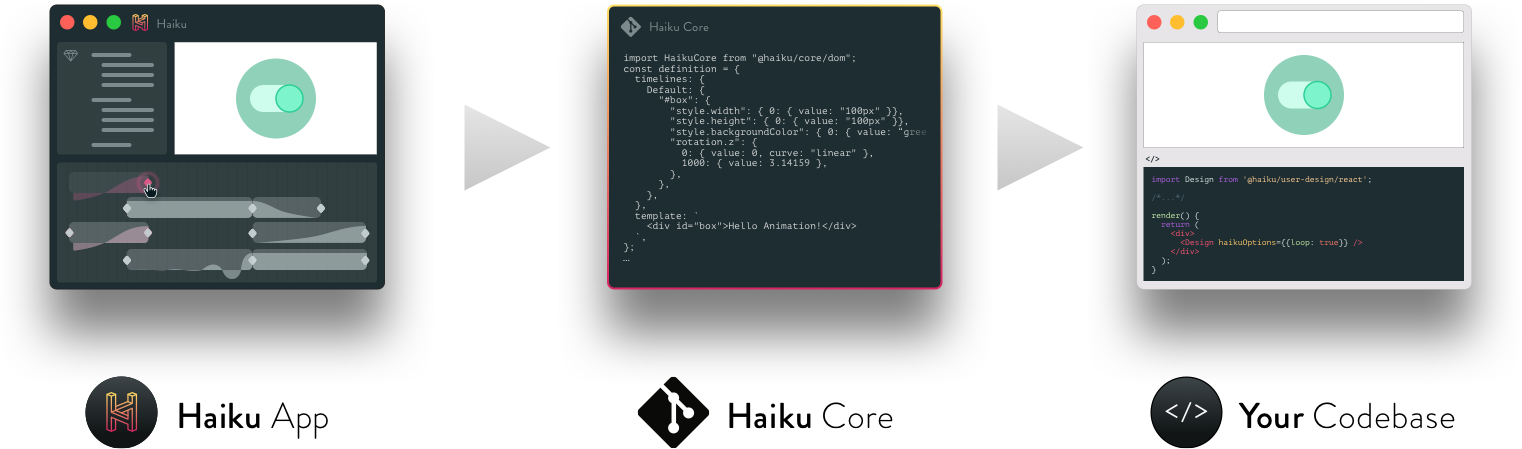
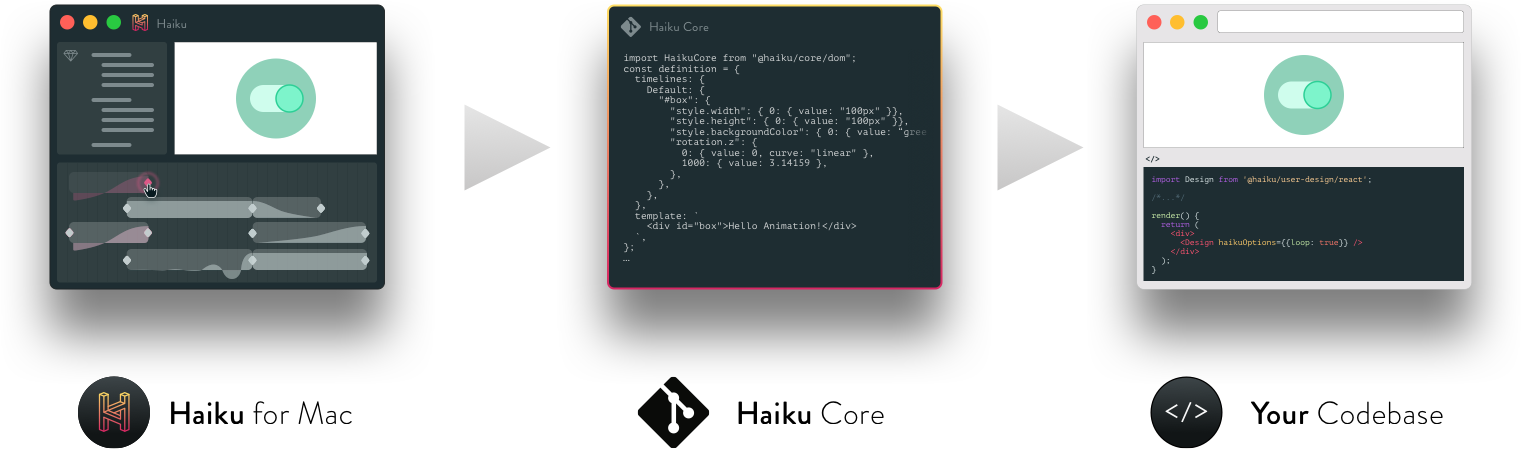
docs: Renamed Haiku App to Haiku for Mac

Changed region(s): [[0.0309, 0.8419, 0.247, 1.0], [0.8029, 0.8731, 0.9573, 0.9666], [0.4632, 0.8731, 0.5867, 0.9666]]

diff --git a/README.md b/README.md
@@ -24,7 +24,7 @@ Haiku Core is the JavaScript engine that runs [Haiku for Mac](https://haiku.ai).
 </p>
 <br>
 
-The Haiku app turns your designs into components and Haiku Core renders them. Since Haiku Core is built on pure and open web standards (HTML, CSS, JavaScript), your users won't ever need to install a plugin.
+Haiku for Mac turns your designs into components and Haiku Core renders them. Since Haiku Core is built on pure and open web standards (HTML, CSS, JavaScript), your users won't ever need to install a plugin.
 
 <br>
 
@@ -58,7 +58,7 @@ Haiku Core provides a simple and familiar API for runtime manipulation of compon
 
 ### Getting started
 
-Creating a Haiku component begins in the Haiku app:
+Creating a Haiku component begins in Haiku for Mac:
 
 1. Design a component in Haiku for Mac — or ask your designer for a component's Haiku share URL
 2. Install the Haiku CLI: `$ yarn global add @haiku/cli` or `$ npm i @haiku/cli --global`
